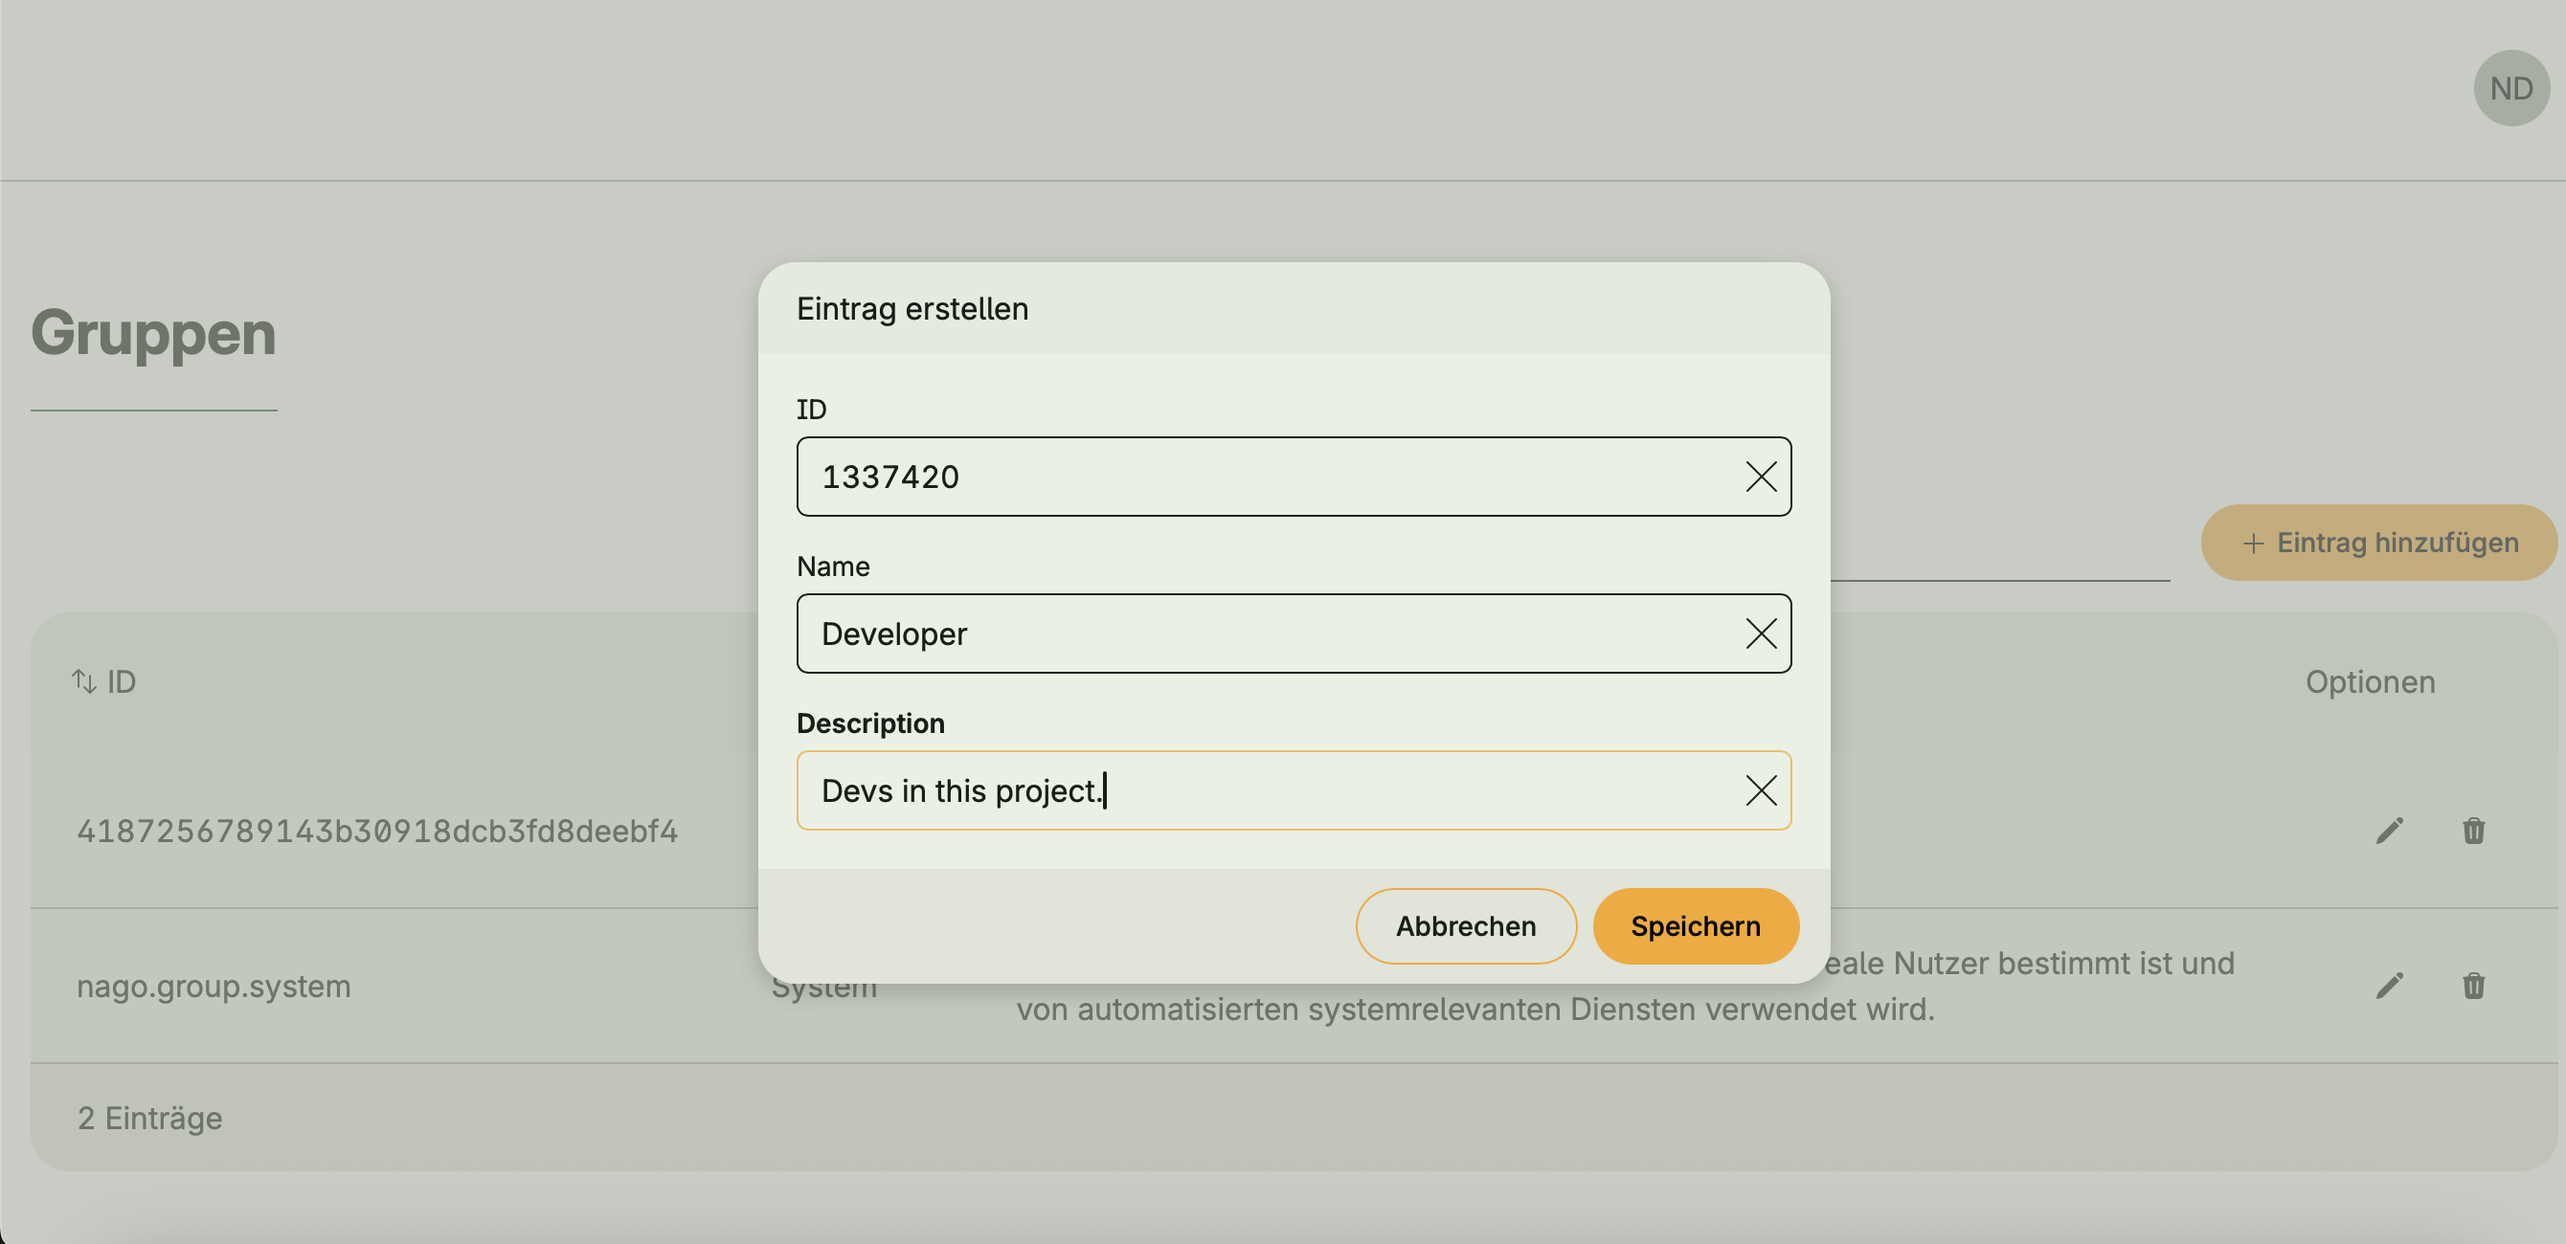
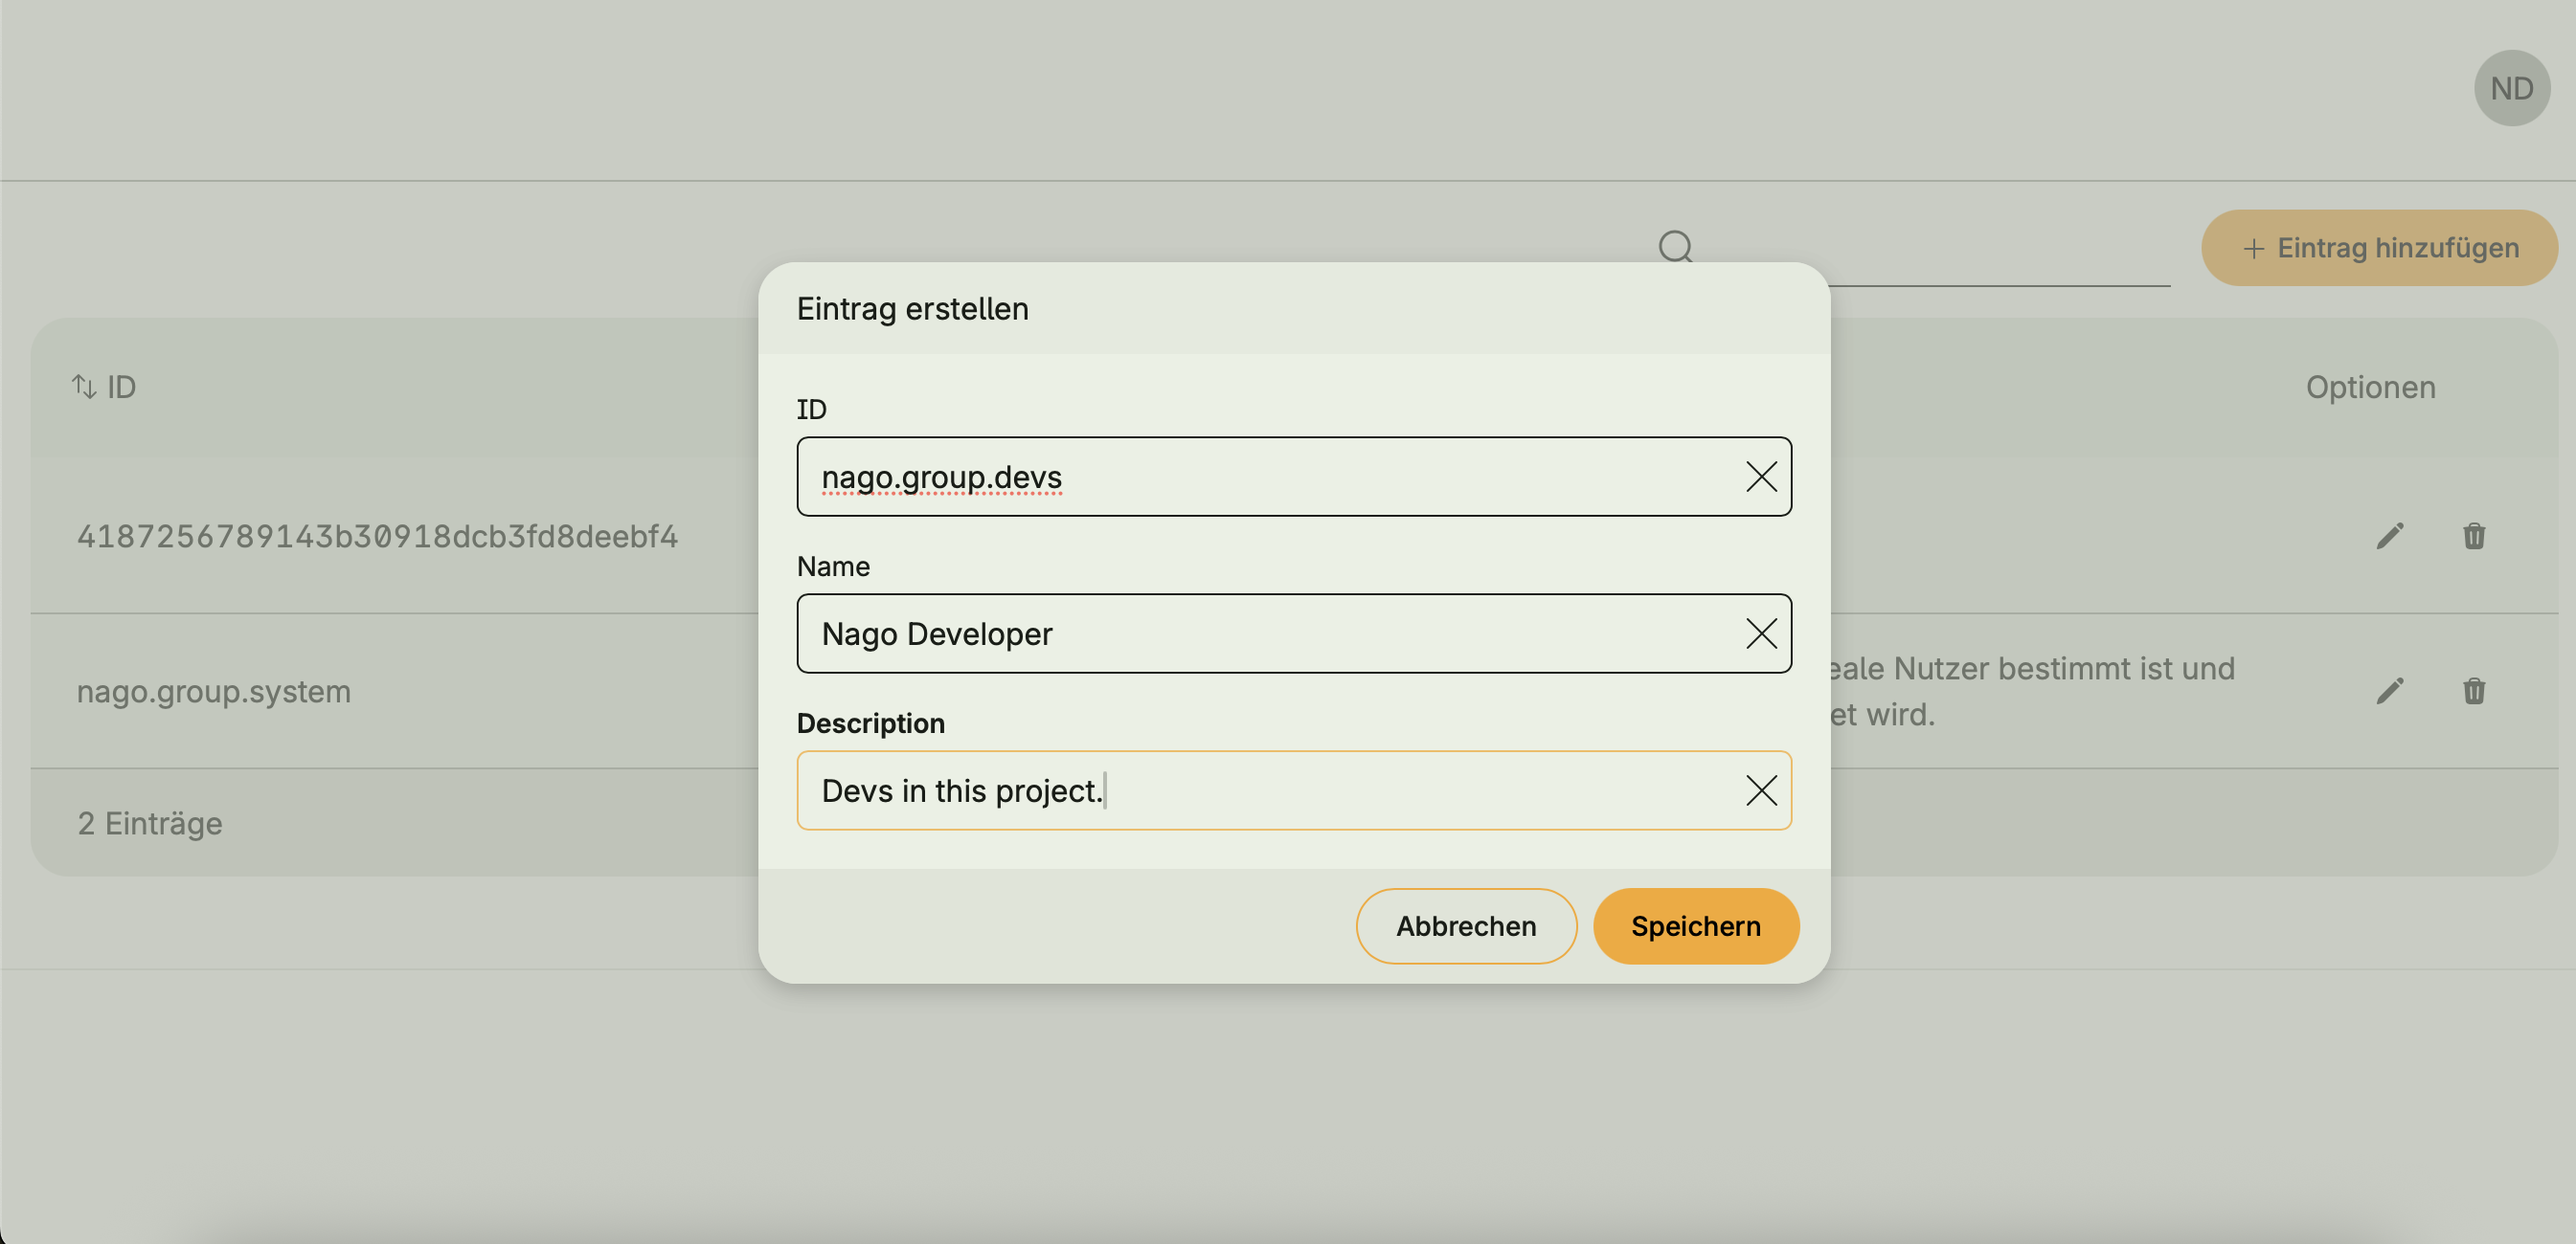
chore: add code examples & images

diff --git a/application/management_group.go b/application/management_group.go
@@ -20,11 +20,10 @@ import (
 )
 
 // GroupManagement is a nago system(Group Management).
-// It is responsible for creating and managing user groups.
-// Groups are used to bundle users together and assign shared permissions.
+// It provides UseCases for creating and managing user groups.
+// Groups are used to bundle users together and control access to certain pages or resources.
 // They can be created, edited, and deleted via UI or code.
-// Group membership is managed through UserManagement, while groups define
-// names, descriptions, and rights to control access to features and pages.
+// Group membership is managed through UserManagement.
 // A special "System" group is created automatically for internal services
 // and is not intended for real users.
 type GroupManagement struct {

diff --git a/docs/nago.dev/content/docs/systems/group_management/_index.md b/docs/nago.dev/content/docs/systems/group_management/_index.md
@@ -6,9 +6,11 @@ galleryOverview:
   - src: "/images/systems/group_management/galleries/overview.png"
 galleryCreateGroup:
   - src: "/images/systems/group_management/galleries/create.png"
+galleryAssignGroup:
+  - src: "/images/systems/group_management/galleries/assign_group.png"
 ---
 The Group Management system provides functionality for creating and managing user groups.  
-Groups are used to organize users and assign shared permissions, making it easier to control access to features, workflows, or pages across the platform.  
+Groups are used to organize users and control access to certain pages or resources across the platform.  
 Groups can be created, edited, and deleted either through the UI or programmatically in the code.
 
 A special **System group** is created automatically.  
@@ -20,8 +22,8 @@ It is reserved for internal services such as initializing the SMTP server.
 Group Management offers the following key functions:
 
 ### Group creation and editing
-- Create new groups with a name, description, and assigned rights
-- Edit existing groups to update metadata and permissions
+- Create new groups with a name and description
+- Edit existing groups to update metadata
 - Delete groups that are no longer needed
 
 {{< swiper name="galleryCreateGroup" loop="false" >}}
@@ -31,15 +33,62 @@ Group Management offers the following key functions:
 - Membership is managed via [User Management](../user_management/)
 - Groups appear in the User Management interface once created
 
+{{< swiper name="galleryAssignGroup" loop="false" >}}
+
 ### Permissions and access control
-- Groups act as containers for rights and roles
-- Useful for restricting access to features, pages, or workflows
+- Groups are containers for organizing users
+- They can be used to control visibility of certain pages or resources
 - Common use case: making certain sections of the platform visible only to specific groups
+
+{{< callout type="info" >}}
+Groups do not define permissions. Functional access rights are managed via [Role Management](../role_management/).
+{{< /callout >}}
 
 ### System group
 - Automatically created when Group Management is initialized
 - Used by system-relevant services such as the SMTP server
 - Not intended for real users
+
+## Code usage
+```go
+package main
+
+import (
+	"go.wdy.de/nago/application"
+	"go.wdy.de/nago/application/group"
+	"go.wdy.de/nago/application/user"
+	"go.wdy.de/nago/pkg/std"
+	"go.wdy.de/nago/presentation/core"
+	"go.wdy.de/nago/presentation/ui"
+	"go.wdy.de/nago/presentation/ui/alert"
+)
+
+const (
+	nagoDevs = group.ID("nago.devs")
+)
+
+func main() {
+    application.Configure(func(cfg *application.Configurator) {
+		cfg.SetApplicationID("de.create.group")
+
+		groupManagement := std.Must(cfg.GroupManagement())
+		std.Must(groupManagement.UseCases.Upsert(user.SU(), group.Group{
+			ID:          nagoDevs,
+			Name:        "Nago Developer",
+			Description: "Devs in this project.",
+		}))
+
+		cfg.RootViewWithDecoration("dev_secrets", func(wnd core.Window) core.View {
+			if !wnd.Subject().HasGroup(nagoDevs) {
+				return alert.Banner("Error", "You are not a member of the group: nago devs")
+			}
+
+			return ui.Text("Welcome to the group of nago devs.")
+		})
+		
+	}).Run()
+}
+```
 
 ## Dependencies
 **Requires:**
@@ -50,8 +99,6 @@ Group Management offers the following key functions:
 - [Secret Management](../secret_management/)
 - [Token Management](../token_management/)
 - [UserCircle Management](../usercircle_management/)
-
-If these are not already active, they will be enabled automatically when Group Management is activated.
 
 ## Activation
 This system is activated via:

diff --git a/docs/nago.dev/content/docs/systems/mail_management/_index.md b/docs/nago.dev/content/docs/systems/mail_management/_index.md
@@ -44,6 +44,37 @@ Mail Management offers the following key functions:
 
 {{< swiper name="galleryTemplates" loop="false" >}}
 
+## Code usage
+
+In addition to the UI workflows, Mail Management can also be used directly in code.  
+The following example demonstrates how to send a simple text email via the `SendMail` use case:
+
+{{< callout type="warning" >}}
+An SMTP server must be configured, otherwise sending emails will fail.  
+See [Secret Management](../secret_management/) for configuration details.
+{{< /callout >}}
+
+```go
+import (
+    "go.wdy.de/nago/application/mail"
+    "go.wdy.de/nago/application/user"
+    "go.wdy.de/nago/pkg/std"
+    netmail "net/mail"
+)
+
+mailManagement := std.Must(cfg.MailManagement())
+
+_, err := mailManagement.UseCases.SendMail(user.SU(), mail.Mail {
+	To:       []netmail.Address{{Address: "nago@dev.com"}},
+	CC:       nil,
+	BCC:      nil,
+	From:     netmail.Address{},
+	Subject:  "Test Mail",
+	Parts:    []mail.Part{mail.NewTextPart("This mail was sent via the SendMail usecase.")},
+	SmtpHint: "",
+})
+```
+
 ## Dependencies
 **Requires:**
 - [Secret Management](../secret_management/) for storing SMTP credentials

diff --git a/docs/nago.dev/content/docs/systems/template_management/_index.md b/docs/nago.dev/content/docs/systems/template_management/_index.md
@@ -54,8 +54,6 @@ These allow integration into workflows beyond email, such as automated reporting
 **Is required by:**
 - [Mail Management](../mail_management/)
 
-If these are not already active, they will be enabled automatically when Template Management is activated.
-
 ## Activation
 This system is activated via:
 ```go

diff --git a/docs/nago.dev/content/docs/systems/secret_management/_index.md b/docs/nago.dev/content/docs/systems/secret_management/_index.md
@@ -20,6 +20,7 @@ Typical workflows include:
 - Deleting secrets
 - Sharing secrets with specific users or groups
 
+## SMTP server
 {{< swiper name="galleryOverview" loop="false" >}}
 
 {{< callout type="info" >}}
